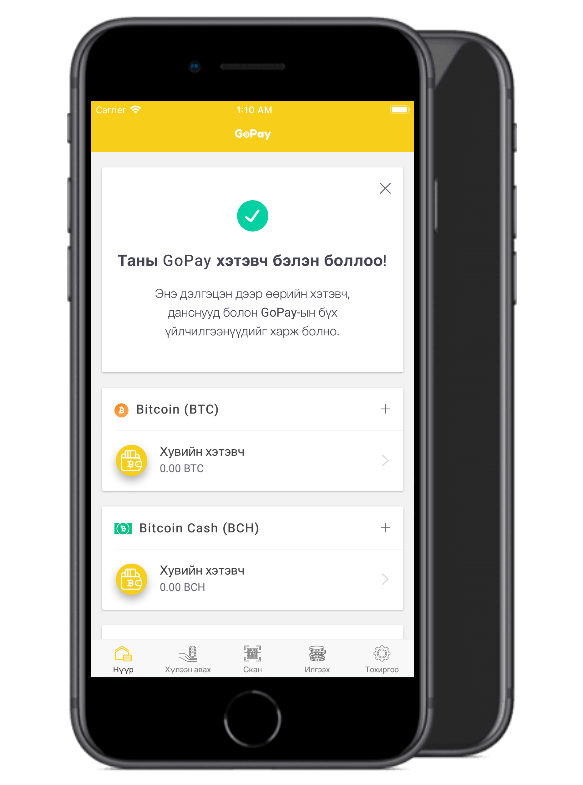
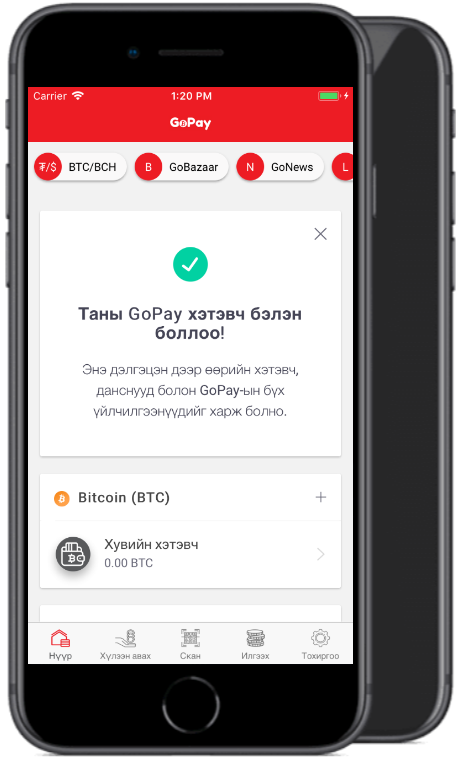
less particles, new phone thumb, changed font, edited footer

diff --git a/js/particles.js b/js/particles.js
@@ -20,7 +20,7 @@ var pJS = function(tag_id, params){
     },
     particles: {
       number: {
-        value: 400,
+        value: 200,
         density: {
           enable: true,
           value_area: 800
@@ -157,9 +157,9 @@ var pJS = function(tag_id, params){
   pJS.fn.retinaInit = function(){
 
     if(pJS.retina_detect && window.devicePixelRatio > 1){
-      pJS.canvas.pxratio = window.devicePixelRatio; 
+      pJS.canvas.pxratio = window.devicePixelRatio;
       pJS.tmp.retina = true;
-    } 
+    }
     else{
       pJS.canvas.pxratio = 1;
       pJS.tmp.retina = false;
@@ -363,7 +363,7 @@ var pJS = function(tag_id, params){
     this.vx_i = this.vx;
     this.vy_i = this.vy;
 
-    
+
 
     /* if shape is image */
 
@@ -392,7 +392,7 @@ var pJS = function(tag_id, params){
       }
     }
 
-    
+
 
   };
 
@@ -402,7 +402,7 @@ var pJS = function(tag_id, params){
     var p = this;
 
     if(p.radius_bubble != undefined){
-      var radius = p.radius_bubble; 
+      var radius = p.radius_bubble;
     }else{
       var radius = p.radius;
     }
@@ -491,9 +491,9 @@ var pJS = function(tag_id, params){
       pJS.canvas.ctx.lineWidth = pJS.particles.shape.stroke.width;
       pJS.canvas.ctx.stroke();
     }
-    
+
     pJS.canvas.ctx.fill();
-    
+
   };
 
 
@@ -664,7 +664,7 @@ var pJS = function(tag_id, params){
     pJS.tmp.count_svg = 0;
     pJS.fn.particlesEmpty();
     pJS.fn.canvasClear();
-    
+
     /* restart */
     pJS.fn.vendors.start();
 
@@ -684,14 +684,14 @@ var pJS = function(tag_id, params){
 
       var opacity_line = pJS.particles.line_linked.opacity - (dist / (1/pJS.particles.line_linked.opacity)) / pJS.particles.line_linked.distance;
 
-      if(opacity_line > 0){        
-        
+      if(opacity_line > 0){
+
         /* style */
         var color_line = pJS.particles.line_linked.color_rgb_line;
         pJS.canvas.ctx.strokeStyle = 'rgba('+color_line.r+','+color_line.g+','+color_line.b+','+opacity_line+')';
         pJS.canvas.ctx.lineWidth = pJS.particles.line_linked.width;
         //pJS.canvas.ctx.lineCap = 'round'; /* performance issue */
-        
+
         /* path */
         pJS.canvas.ctx.beginPath();
         pJS.canvas.ctx.moveTo(p1.x, p1.y);
@@ -725,7 +725,7 @@ var pJS = function(tag_id, params){
       p2.vy += ay;
 
     }
-    
+
 
   }
 
@@ -805,7 +805,7 @@ var pJS = function(tag_id, params){
       if(dist_mouse <= pJS.interactivity.modes.bubble.distance){
 
         if(ratio >= 0 && pJS.interactivity.status == 'mousemove'){
-          
+
           /* size */
           if(pJS.interactivity.modes.bubble.size != pJS.particles.size.value){
 
@@ -854,7 +854,7 @@ var pJS = function(tag_id, params){
       if(pJS.interactivity.status == 'mouseleave'){
         init();
       }
-    
+
     }
 
     /* on click event */
@@ -933,7 +933,7 @@ var pJS = function(tag_id, params){
           repulseRadius = pJS.interactivity.modes.repulse.distance,
           velocity = 100,
           repulseFactor = clamp((1/repulseRadius)*(-1*Math.pow(dist_mouse/repulseRadius,2)+1)*repulseRadius*velocity, 0, 50);
-      
+
       var pos = {
         x: p.x + normVec.x * repulseFactor,
         y: p.y + normVec.y * repulseFactor
@@ -946,7 +946,7 @@ var pJS = function(tag_id, params){
         p.x = pos.x;
         p.y = pos.y;
       }
-    
+
     }
 
 
@@ -1001,7 +1001,7 @@ var pJS = function(tag_id, params){
         // }else{
         //   process();
         // }
-        
+
 
       }else{
 
@@ -1009,7 +1009,7 @@ var pJS = function(tag_id, params){
 
           p.vx = p.vx_i;
           p.vy = p.vy_i;
-        
+
         }
 
       }
@@ -1039,7 +1039,7 @@ var pJS = function(tag_id, params){
           pJS.canvas.ctx.strokeStyle = 'rgba('+color_line.r+','+color_line.g+','+color_line.b+','+opacity_line+')';
           pJS.canvas.ctx.lineWidth = pJS.particles.line_linked.width;
           //pJS.canvas.ctx.lineCap = 'round'; /* performance issue */
-          
+
           /* path */
           pJS.canvas.ctx.beginPath();
           pJS.canvas.ctx.moveTo(p.x, p.y);
@@ -1155,7 +1155,7 @@ var pJS = function(tag_id, params){
         }
 
       });
-        
+
     }
 
 
@@ -1359,7 +1359,7 @@ var pJS = function(tag_id, params){
           pJS.fn.vendors.init();
           pJS.fn.vendors.draw();
         }
-        
+
       }
 
     }else{
@@ -1406,7 +1406,7 @@ var pJS = function(tag_id, params){
   pJS.fn.vendors.eventsListeners();
 
   pJS.fn.vendors.start();
-  
+
 
 
 };

diff --git a/index.html b/index.html
@@ -655,7 +655,7 @@
         <!-- Foooter Text-->
         <div class="copyright-text">
             <!-- ***** Removing this text is now allowed! This template is licensed under CC BY 3.0 ***** -->
-            <p>Бүх эрх хуулиар хамгаалагдсан 2018 © Disrupt.</p>
+            <p>Бүх эрх хуулиар хамгаалагдсан 2018 © GoPay LLC.</p>
         </div>
     </footer>
     <!-- ***** Footer Area Start ***** -->

diff --git a/style.css b/style.css
@@ -477,7 +477,7 @@ p {
 
 .welcome-thumb img {
     height: auto;
-    width: 80%;
+    width: 65%;
 }
 
 .wellcome-heading > h2 {
@@ -587,7 +587,7 @@ p {
 
 .single-special > h4 {
     font-size: 22px;
-    color: rgba(0, 0, 0, 0.65);
+    color: rgba(0, 0, 0, 0.55);
     margin-bottom: 15px;
     font-family: "Comfortaa", cursive;
     font-weight: 700;

diff --git a/js/particle.js b/js/particle.js
@@ -20,7 +20,7 @@ function particalBGone () {
     particlesJS("particles-js", {
       "particles": {
         "number": {
-          "value": 75,
+          "value": 50,
           "density": {
             "enable": true,
             "value_area": 473.51100518494565
